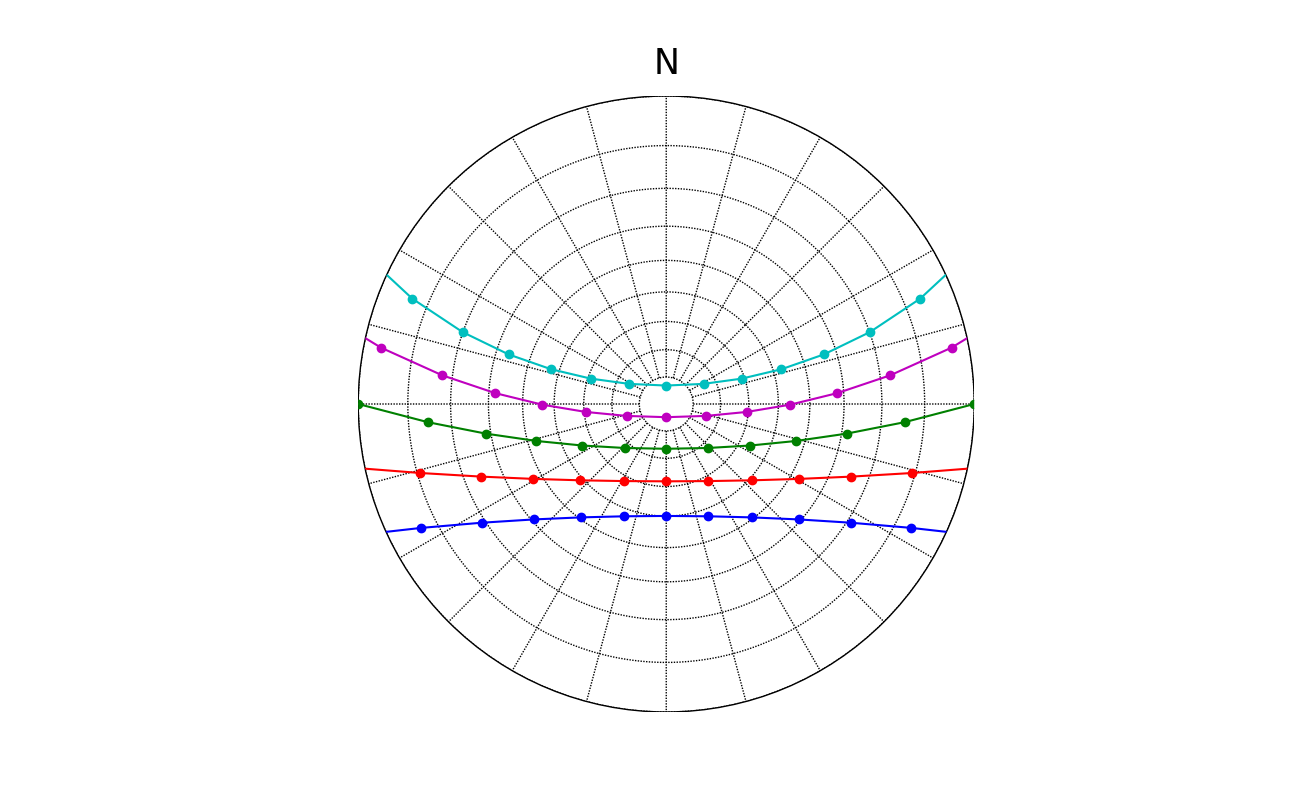
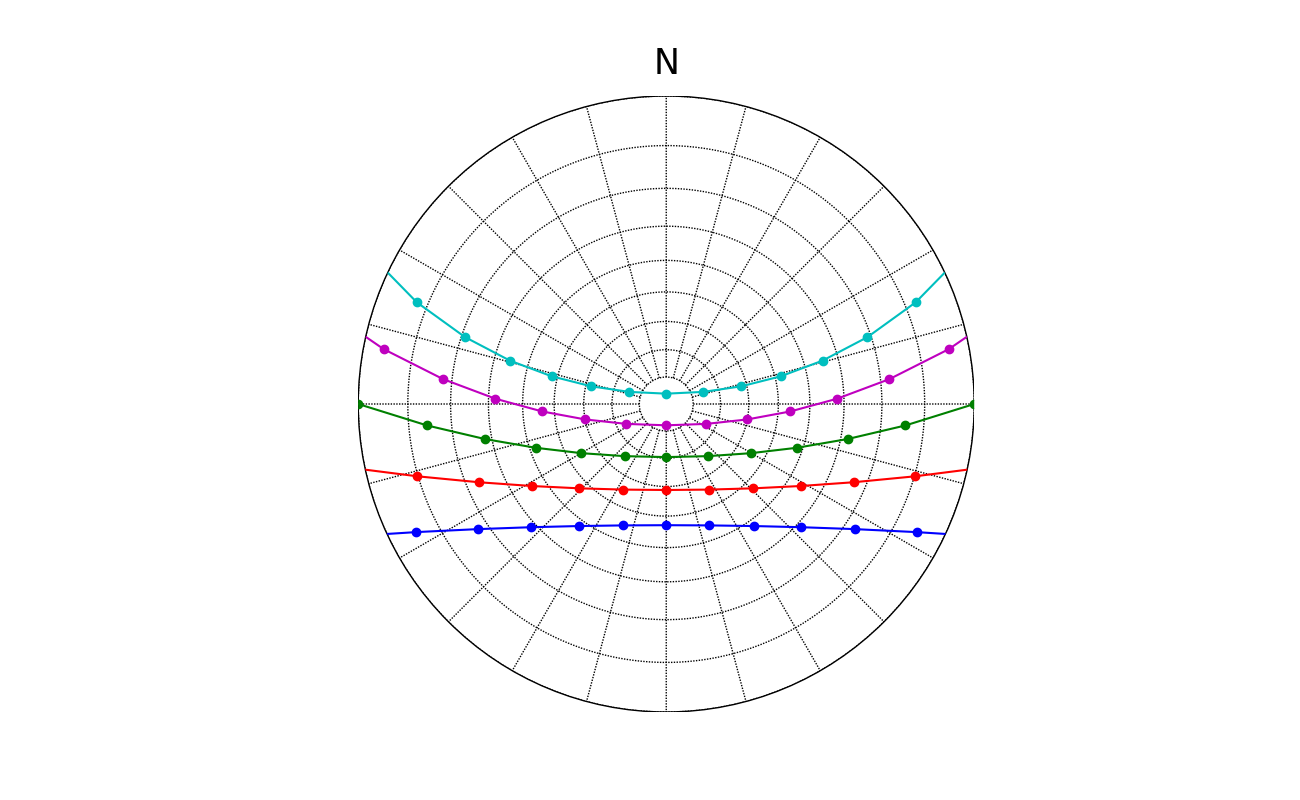
hace arcos de grafica solar en el lugar correcto, primera aproximación a orbita solar

diff --git a/templates/index.html b/templates/index.html
@@ -139,25 +139,27 @@
         // Función para enviar la latitud al servidor
            // Función para enviar la latitud al servidor
            function enviarLatitud(latitud) {
-            fetch('/procesar-latitud', {
-                method: 'POST',
-                headers: {
-                    'Content-Type': 'application/json',
-                },
-                body: JSON.stringify({ latitud: latitud }),
-            })
-            .then(response => response.json())
-            .then(data => {
-                console.log('Respuesta:', data);
-                // Mostrar la imagen del diagrama solar
-                document.getElementById('solarImage').src = '/static/sunpath_diagram.png';
-                // Llamar a la función que actualiza el domo en el visor 3D con los datos de altitudes y azimuts
-                actualizarSkyDome(data.altitudes, data.azimuts);
-            })
-            .catch((error) => {
-                console.error('Error:', error);
-            });
-        }
+    fetch('/procesar-latitud', {
+        method: 'POST',
+        headers: {
+            'Content-Type': 'application/json',
+        },
+        body: JSON.stringify({ latitud: latitud }),
+    })
+    .then(response => response.json())
+    .then(data => {
+        console.log('Respuesta:', data);
+        document.getElementById('solarImage').src = '/static/sunpath_diagram.png';
+        actualizarSkyDome(data.altitudes, data.azimuts);
+
+        // Llamar a crearArco para actualizar el arco según la nueva latitud
+        crearArco(latitud);
+    })
+    .catch((error) => {
+        console.error('Error:', error);
+    });
+}
+
 
         // Configuración del visor 3D
         var viewer = document.getElementById('viewer');
@@ -182,6 +184,97 @@
         scene.add(light);
 
         camera.position.z = 5;
+
+        function crearEsferaConMovimiento(arco1, arco2) {
+    // Crear la esfera y añadirla a la escena
+    const esferaGeometry = new THREE.SphereGeometry(2, 16, 16); // Esfera de radio 2
+    const esferaMaterial = new THREE.MeshBasicMaterial({ color: 0x00ff00 }); // Color verde
+    const esfera = new THREE.Mesh(esferaGeometry, esferaMaterial);
+    scene.add(esfera);
+
+    // Parámetros para controlar el movimiento
+    const radioArco = 60;  // Radio de los arcos
+    let angulo = 0;  // Ángulo inicial
+    let velocidad = 0.02;  // Velocidad del movimiento
+
+    // Función para crear un marcador en la trayectoria
+    function crearMarcador(x, y, z) {
+        const marcadorGeometry = new THREE.SphereGeometry(0.2, 8, 8); // Esfera más pequeña para el marcador
+        const marcadorMaterial = new THREE.MeshBasicMaterial({ color: 0xff0000 }); // Color rojo para los puntos
+        const marcador = new THREE.Mesh(marcadorGeometry, marcadorMaterial);
+        marcador.position.set(x, y, z);
+        scene.add(marcador);
+    }
+
+    // Función de animación para mover la esfera entre los perímetros de arco1 y arco2
+    function moverEsfera() {
+        // Calcular la posición de la esfera en el perímetro del arco usando el ángulo actual
+        const x = radioArco * Math.cos(angulo);
+        const y = radioArco * Math.sin(angulo);
+
+        // Interpolación entre arco1 y arco2, comenzando en arco1 (0) y variando hasta arco2 (1)
+        const interpolacion = (1 + Math.sin(angulo - Math.PI / 2)) / 2;
+
+        // Interpolar la posición entre los dos arcos
+        const z = THREE.MathUtils.lerp(arco1.position.z, arco2.position.z, interpolacion);
+        esfera.position.set(x, y, z);
+
+        // Crear un marcador en la posición actual de la esfera
+        crearMarcador(x, y, z);
+
+        // Incrementar el ángulo para el siguiente frame
+        angulo += velocidad;
+
+        // Llamar a la función en cada frame
+        requestAnimationFrame(moverEsfera);
+    }
+
+    // Iniciar el movimiento de la esfera
+    moverEsfera();
+}
+
+
+
+        // Función para crear un arco centrado en (0, 0, 0) con altura de 60
+function crearArco(latitud) {
+    // Eliminar el arco previo si ya existe
+    if (scene.getObjectByName('arco')) {
+        scene.remove(scene.getObjectByName('arco'));
+    }
+
+    // Crear la geometría del arco
+    const arcoRadio = 60;
+    const arcoSegmentos = 50;
+    const arcoMaterial = new THREE.LineBasicMaterial({ color: 0xFF5733 }); // Color del arco
+
+    const arcoPuntos = [];
+    for (let i = 0; i <= arcoSegmentos; i++) {
+        const theta = (i / arcoSegmentos) * Math.PI; // Crear arco de 180 grados
+        const x = arcoRadio * Math.cos(theta);
+        const y = arcoRadio * Math.sin(theta);
+        arcoPuntos.push(new THREE.Vector3(x, y, 0));
+    }
+
+    const arcoGeometry = new THREE.BufferGeometry().setFromPoints(arcoPuntos);
+    const arco = new THREE.Line(arcoGeometry, arcoMaterial);
+    const arco1 = new THREE.Line(arcoGeometry, arcoMaterial);
+    const arco2= new THREE.Line(arcoGeometry, arcoMaterial);
+    arco.name = 'arco';
+
+    // Rotar el arco en función de la latitud + 90 grados
+    arco.rotation.x = (latitud) * (Math.PI / 180); // Convertir a radianes
+    arco1.rotation.x = (latitud+23) * (Math.PI / 180); 
+    arco2.rotation.x = (latitud-23) * (Math.PI / 180); 
+    //arco.rotation.z = inclinacion;
+    
+
+    // Agregar el arco a la escena
+    //scene.add(arco);
+    scene.add(arco1);
+    scene.add(arco2);
+    crearEsferaConMovimiento(arco1, arco2);
+}
+
 
         function crearAnillos(altitudes, azimuts) {
             const colores = [0xADD8E6, 0x800080, 0x008000, 0xFF0000, 0x00008B];  // Colores azul claro, morado, verde, rojo, azul oscuro
@@ -217,7 +310,7 @@ for (let i = 0; i < altitudes.length; i++) {
         }
 
         function actualizarSkyDome(altitudes, azimuts) {
-            crearAnillos(altitudes, azimuts);
+           // crearAnillos(altitudes, azimuts);
         }
 
         function animate() {

diff --git a/app.py b/app.py
@@ -129,9 +129,9 @@ def procesar_latitud():
     # Llamada a la función para generar el diagrama solar con la latitud proporcionada y obtener datos
     resultado = generar_diagrama_solar(latitud)
     
-    print(f"Latitud: {latitud}")
-    print("Altitudes:", resultado['altitudes'])
-    print("Azimuts:", resultado['azimuts'])
+   # print(f"Latitud: {latitud}")
+    #print("Altitudes:", resultado['altitudes'])
+    #print("Azimuts:", resultado['azimuts'])
 
     # Devolver los datos calculados al frontend
     return jsonify({
